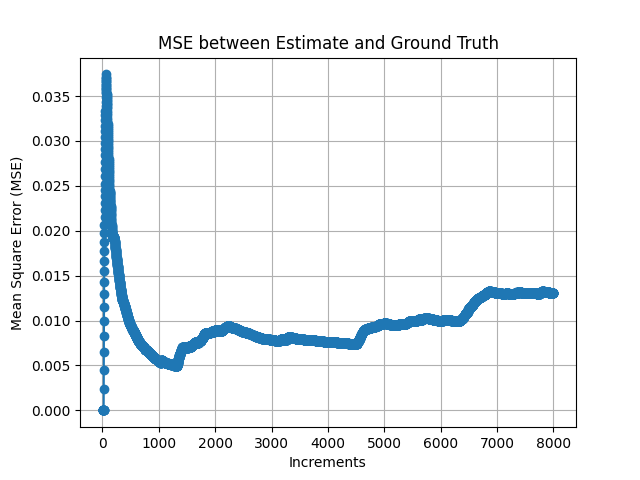
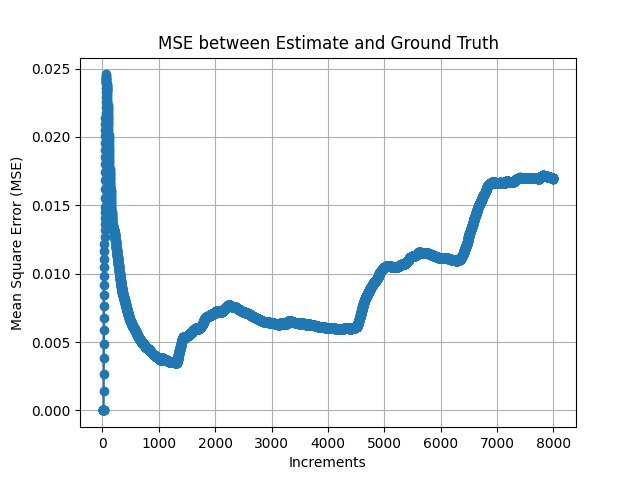
74.72 loss

diff --git a/LP4-AutonomousRobots/Assignment 3/assignment3.py b/LP4-AutonomousRobots/Assignment 3/assignment3.py
@@ -3,11 +3,10 @@ import matplotlib.pyplot as plt
 import pandas as pd
 import os
 import numpy as np
-from sklearn.metrics import mean_squared_error as MSE
 import plot
 
 M = 14.6
-R = 0.27
+car_radius = 0.27
 r = 0.27
 I = 0.36
 alpha = 0.3
@@ -18,6 +17,17 @@ t2 = 20
 t3 = 30
 t4 = 40
 dt = 0.005
+straight_parameters = {
+    'Q': np.eye(4) * 0.001,
+    'R': np.eye(4) * 0.5,
+}
+turning_parameters = {
+    'Q': np.eye(4) * 0.2, # How much we trust our GNSS
+    'R': np.eye(4) * 0.0001,  # How much we trust our Kinematic model
+}
+Q = straight_parameters['Q'] 
+R = straight_parameters['R']
+is_turning = False
 
 def read_data(file_name, v1, v2, v3):
     df = pd.read_csv(os.path.join('data', file_name))
@@ -58,17 +68,35 @@ def get_F(xhat):
                      [(np.cos(xhat[1]))*dt, (-xhat[0]*np.sin(xhat[1]))*dt, 1, 0],
                      [(np.sin(xhat[1]))*dt, (xhat[0]*np.cos(xhat[1]))*dt, 0, 1]])
 
+def switch_state(turn):
+    global current_parameters, is_turning
+    if turn and not is_turning:
+        Q = turning_parameters['Q']
+        R = turning_parameters['R']
+        is_turning = True
+        print("Switched to turning parameters.")
+    elif not turn and is_turning:
+        Q = straight_parameters['Q']
+        R = straight_parameters['R']
+        is_turning = False
+        print("Switched to still parameters.")
+
+def update_turning(t):
+    if t > t2-2 and t < t3:
+        switch_state(turn=True)
+    elif t > t3+5:
+        switch_state(turn=False)
+
 def kalman_filter(gnns_dict, time, theta, v, x, y, theta_dot):
     state = np.zeros((len(time), 4))
     cov_history = []
     P = np.eye(4)
-    Q = np.eye(4) * 0.001
-    R = np.eye(4) * 0.3
     H = np.eye(4)
     H[:2, :2] = 0
 
     xhat = np.array([v[0], theta[0], x[0], y[0]])
     for index, t in enumerate(time):
+        update_turning(t)
         xhat = get_xhat(xhat, index, theta_dot, v)
         F = get_F(xhat)    
         P = F @ P @ F.T + Q
@@ -87,7 +115,7 @@ def main():
     gnss_dict = {t[i]: (gnss_x[i], gnss_y[i]) for i in range(len(t))}
     gt_x, gt_y, _ = read_data('groundtruth-1.csv', 'x', 'y', 'phi')
     
-    theta_dot = (vr-vl)/(2*R)
+    theta_dot = (vr-vl)/(2*car_radius)
     velocity = (vr+vl)/2
     x, y, theta = get_position(theta_dot, velocity)
 
@@ -95,8 +123,8 @@ def main():
     
     increments, mse_values = compute_mse(kf_x, kf_y, gt_x, gt_y)
     print('MSE: ', sum(mse_values))
-    plot.plot_mse(increments, mse_values)
-    plot.plot_covariance(cov_history, time)
+    #plot.plot_mse(increments, mse_values)
+    #plot.plot_covariance(cov_history, time)
     plot.plot_motion([x, gnss_x, gt_x, kf_x], [y, gnss_y, gt_y, kf_y], ['Odometry', 'GNSS', 'Ground Truth', 'Kalman'])
 
 
